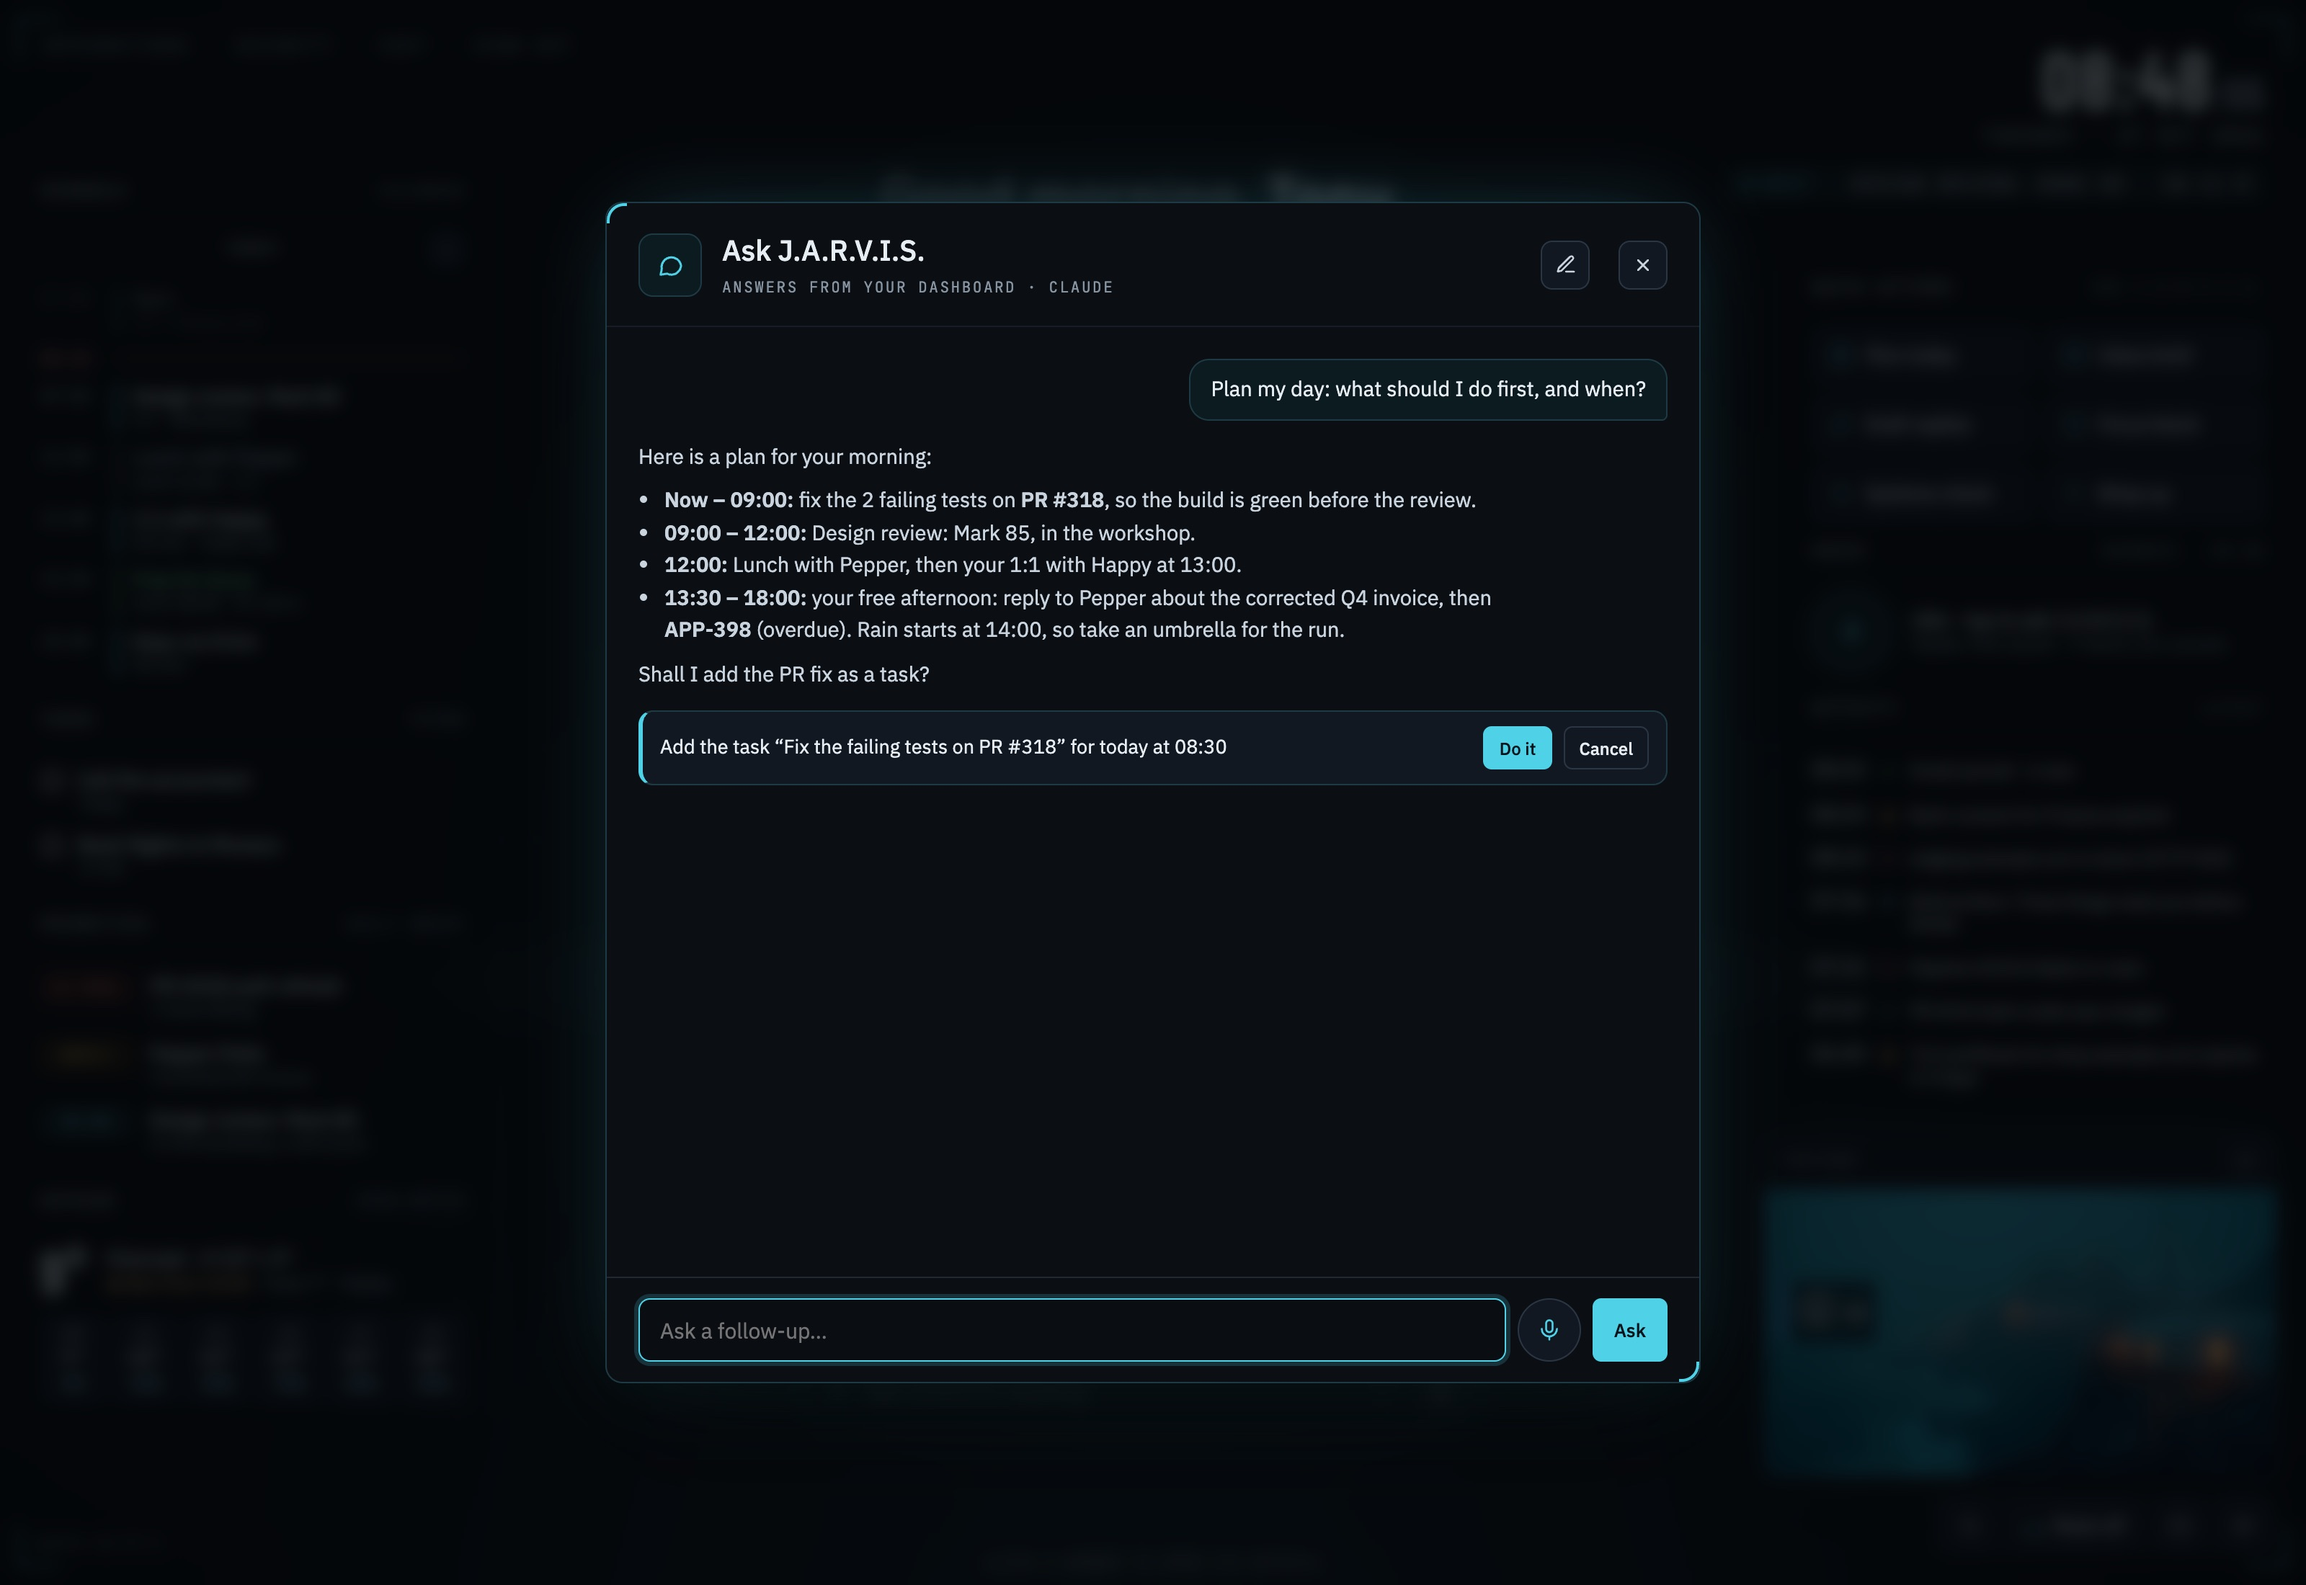
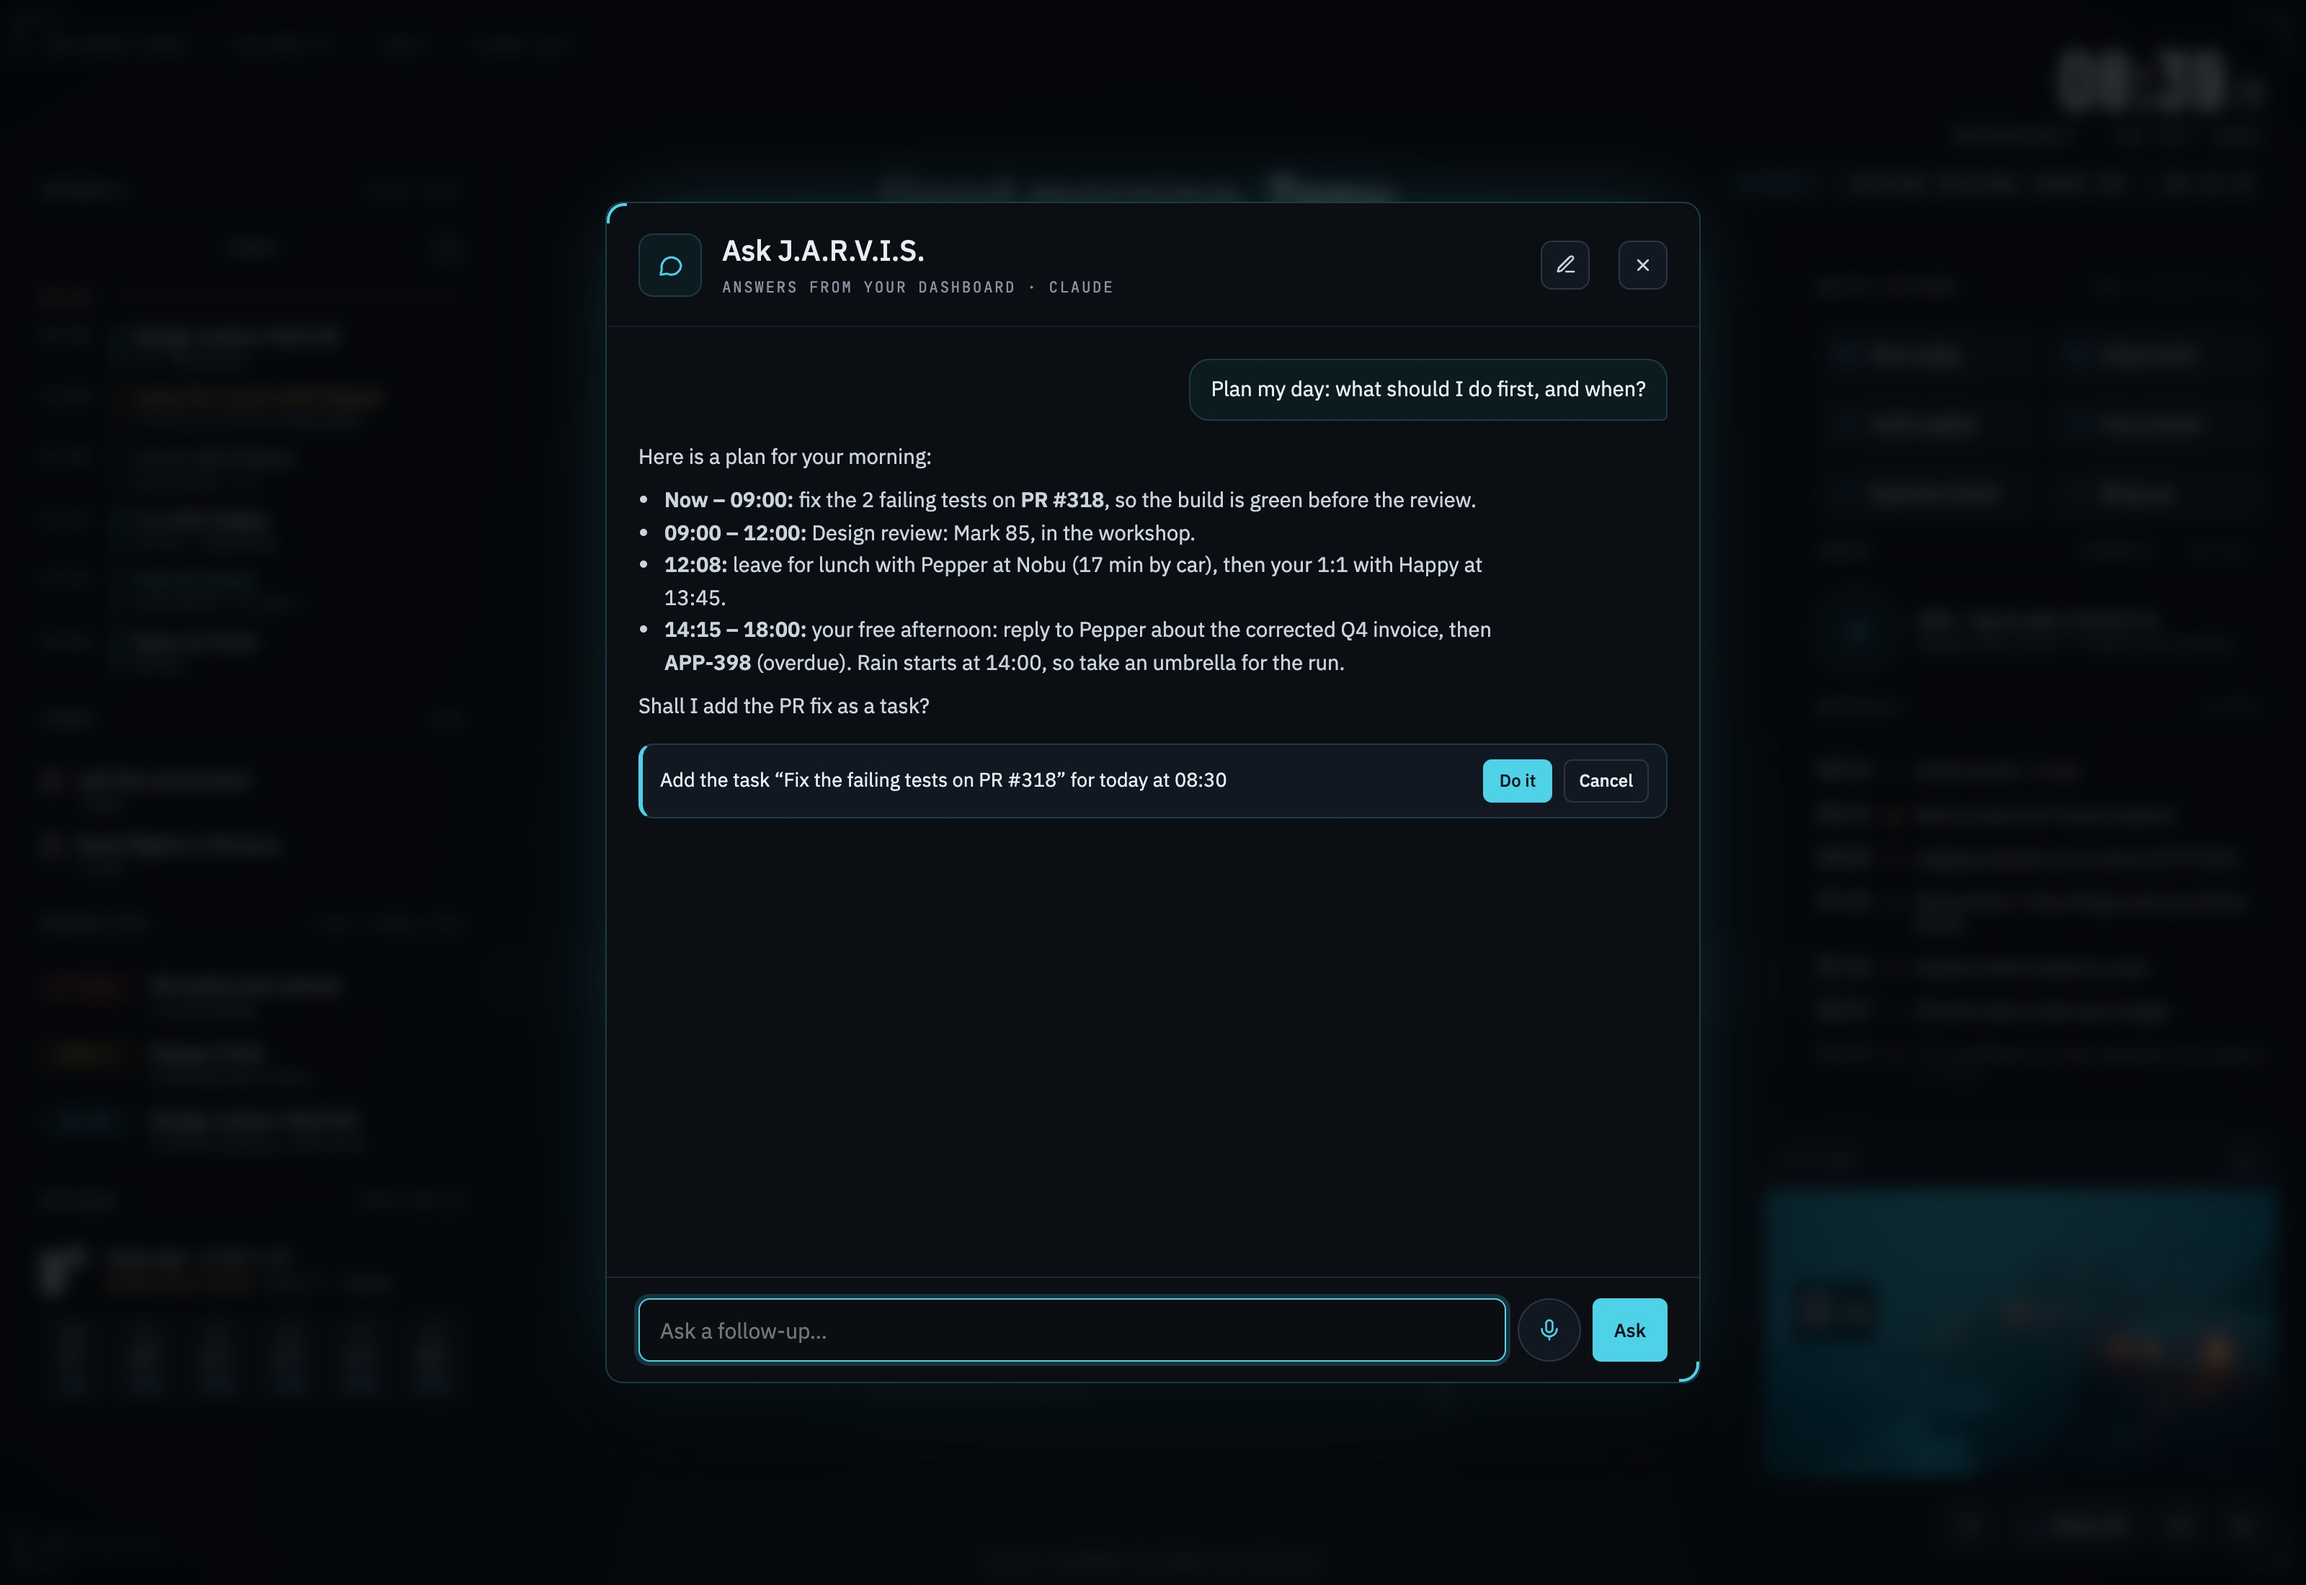
README: screenshots of a day with a commute (#177)
The schedule shows when to leave for lunch, and the report's day at a glance the way there.

Claude-Session: https://claude.ai/code/session_01WepqR9ZDDWQ5SWvBengdYi

Changed region(s): [[0.2812, 0.34, 0.6562, 0.4945], [0.625, 0.4327, 0.7188, 0.5255]]

diff --git a/README.md b/README.md
@@ -4,7 +4,7 @@ myOrb is your personal AI-powered daily briefing dashboard. It connects to email
 
 > 🚧 Work in progress.
 
-![myOrb welcome screen: the orb with numbers from email, calendar, tasks, pull requests, Jira, finance, Slack, uptime, sleep and YouTube; today's schedule, tasks, priorities from the brief and the weather on the left; quick actions, recent activity and a YouTube player on the right](https://raw.githubusercontent.com/eriktelepovsky/myorb/main/docs/images/welcome.jpg)
+![myOrb welcome screen: the orb with numbers from email, calendar, tasks, pull requests, Jira, finance, Slack, uptime, sleep and YouTube; today's schedule with when to leave for lunch, tasks, priorities from the brief and the weather on the left; quick actions, recent activity and a YouTube player on the right](https://raw.githubusercontent.com/eriktelepovsky/myorb/main/docs/images/welcome.jpg)
 
 *The welcome screen, with sample data.*
 
@@ -19,7 +19,7 @@ Your assistant is yours to name: call it J.A.R.V.I.S., Iris, HAL 9000 or anythin
 - **Focus time:** the free blocks of an hour or more between today's meetings (an event you ignore in the calendar's details, e.g. someone else's in a shared calendar, stays grey and takes no time), with 45 minutes kept for lunch between 11:30 and 13:30 (unless the calendar has a lunch already), in the schedule, the calendar's details and the brief. Ask can block one in your calendar.
 - **Commute:** when to leave for today's events that happen somewhere, with the traffic expected then (Google Routes API): in the header, the schedule and the brief.
 - **Tasks:** due dates written in plain language, e.g. “call Anna tomorrow 10:00”, and repeats, e.g. “take out the bins every Monday” or “pay the rent every month on the 1st”: done, such a task moves on to its next date.
-- **Side columns:** today's schedule, tasks, priorities from the brief and the weather on the left; quick actions and what happened lately on the right.
+- **Side columns:** today's schedule with when to leave for lunch, tasks, priorities from the brief and the weather on the left; quick actions and what happened lately on the right.
 - **Music and sounds:** generated ambient music or any YouTube video or playlist while you work, and quiet interface sounds.
 - **Yours:** self-hosted, a password and passkeys for sign-in, works on a phone and installs as an app. Claude's cost is counted in euros. Extend it with [plugins](https://github.com/eriktelepovsky/myorb/blob/main/docs/PLUGINS.md).
 
